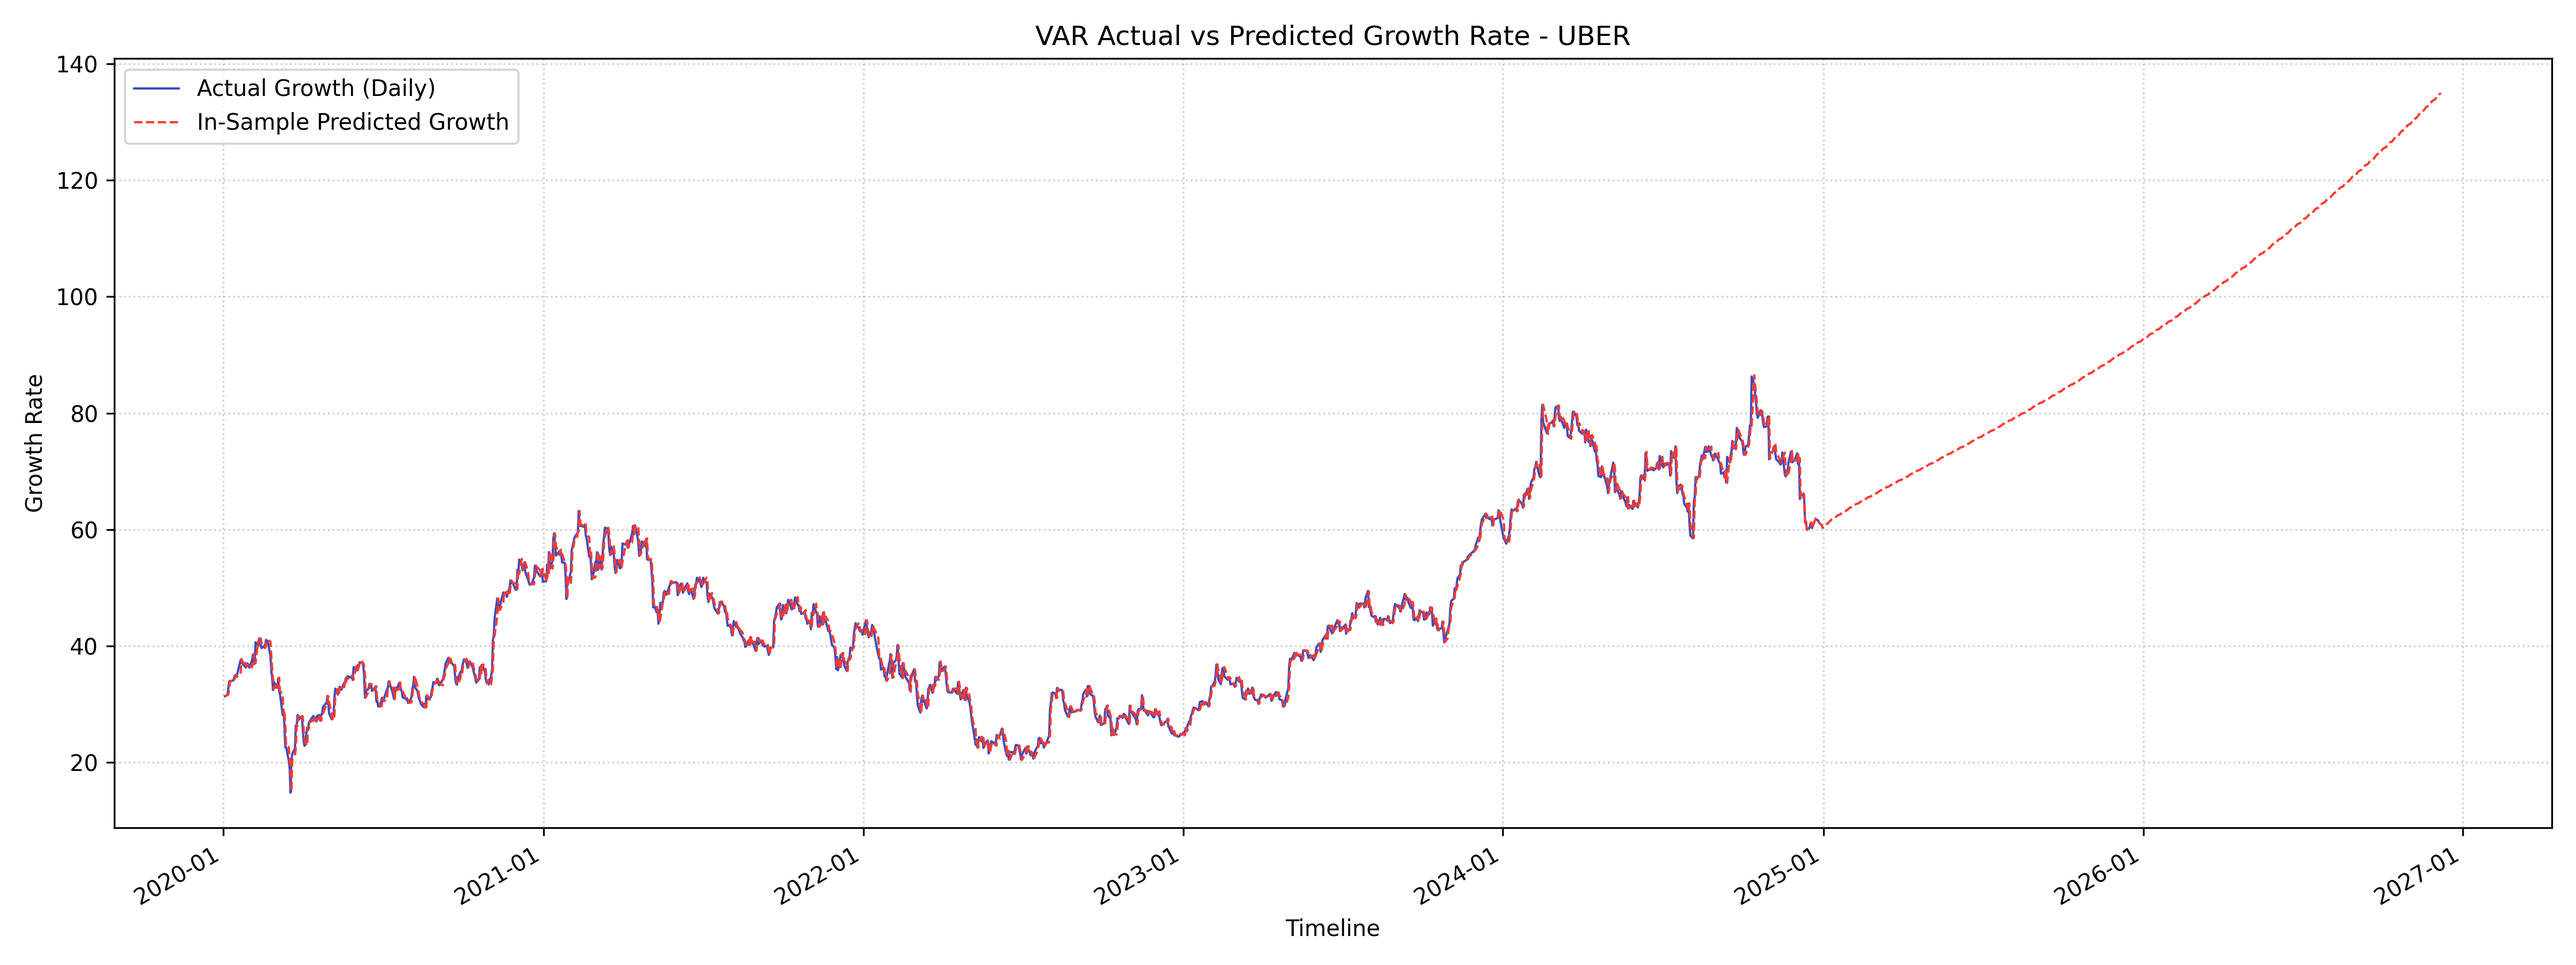
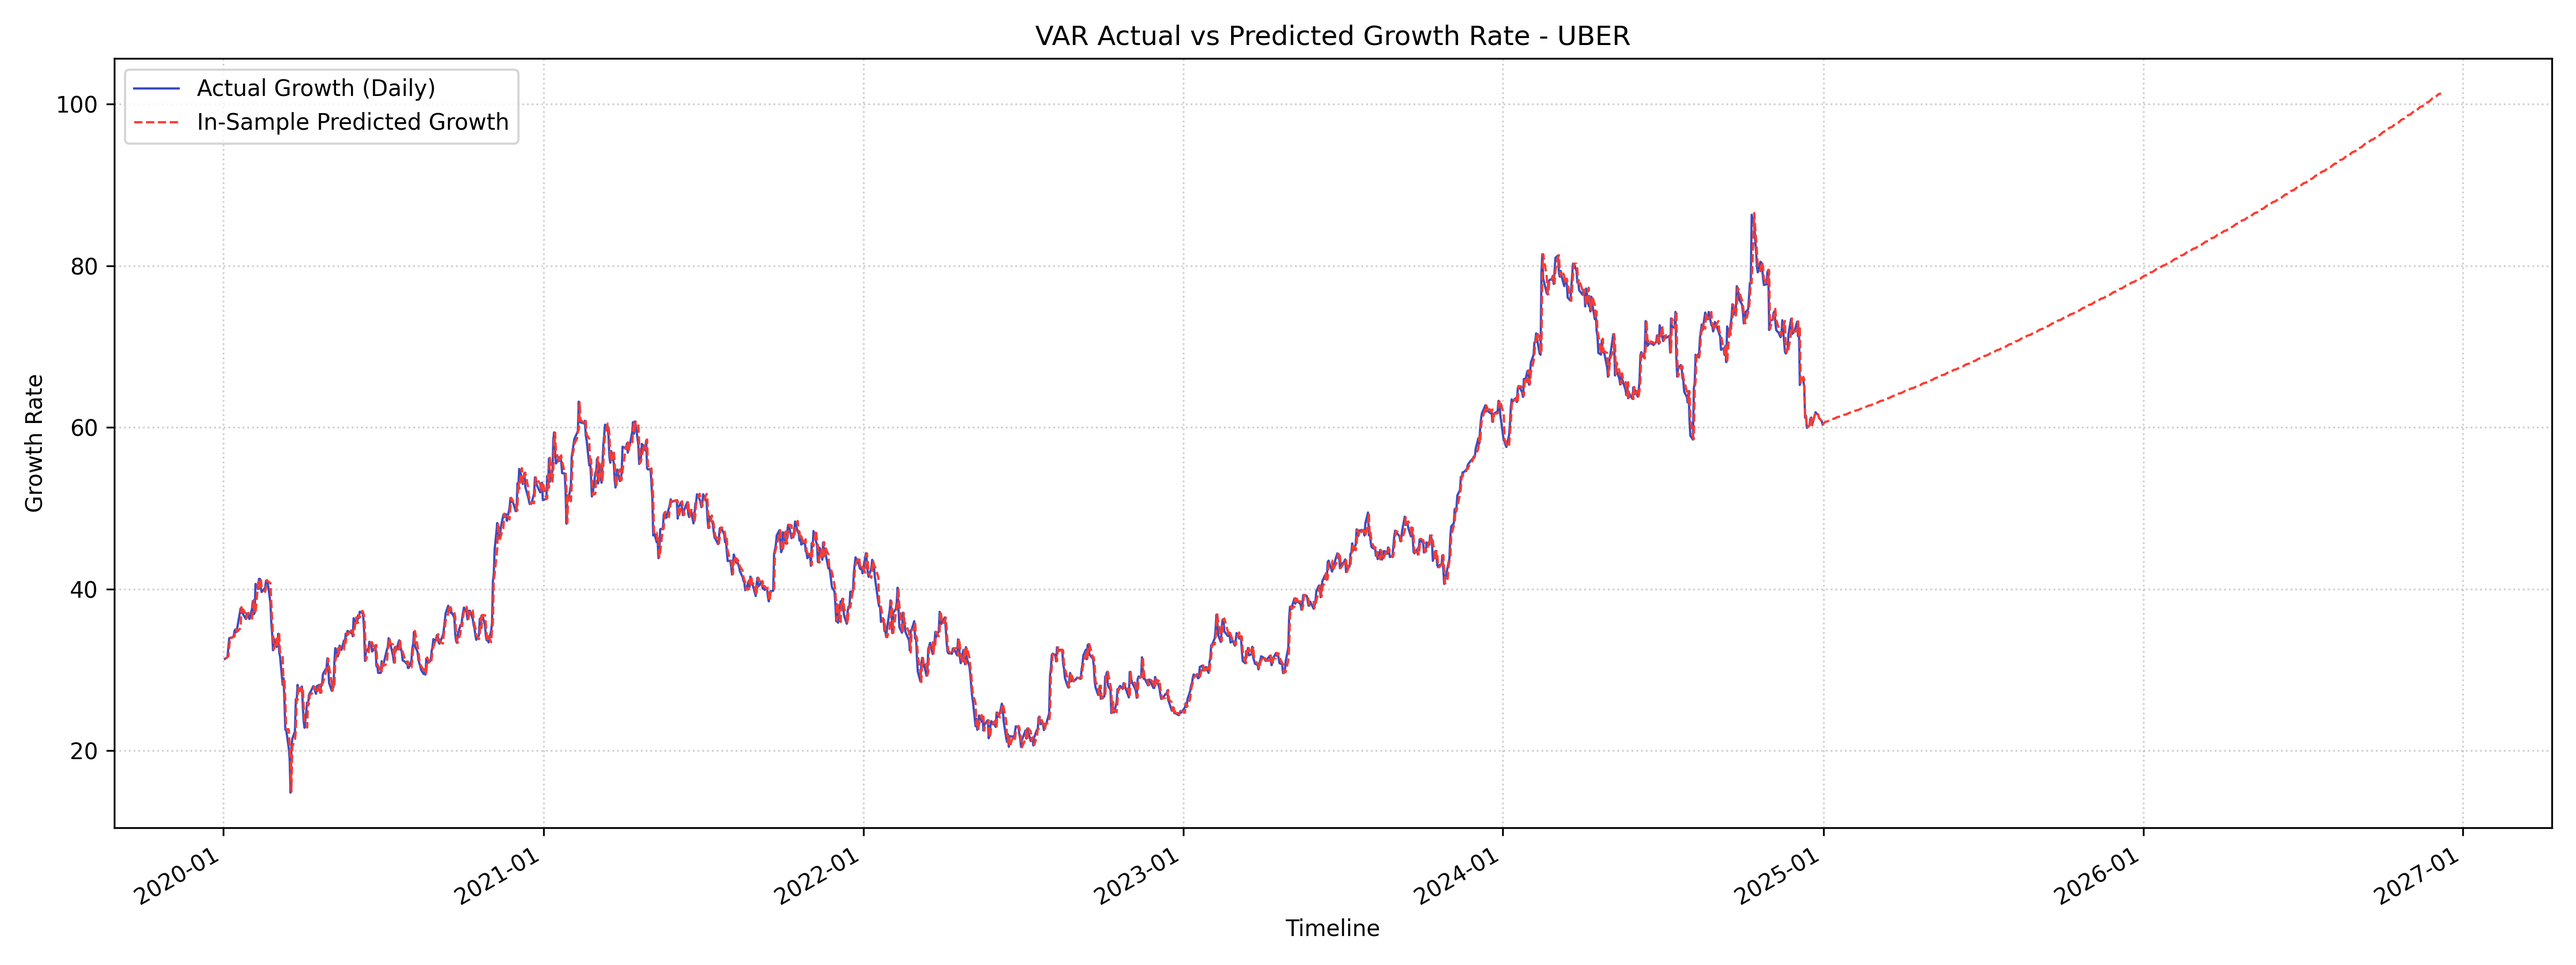
Architecture changes

Changed region(s): [[0.0938, 0.4356, 0.5938, 0.8089], [0.5625, 0.2489, 0.7188, 0.5289]]

diff --git a/ARIMAGrowthModel/architecture.py b/ARIMAGrowthModel/architecture.py
@@ -14,18 +14,39 @@ class ARIMAModelArchitecture:
         self.model_fit = None
         self.fitted_features = []
         self.train_len = 0
+        self.exog_means = None
+        self.exog_stds = None
 
     def fit_model(self, endog: pd.Series, exog_full: pd.DataFrame, feature_cols: list):
         self.train_len = len(endog)
         exog = exog_full[feature_cols].fillna(0.0)
         exog = exog.loc[:, exog.nunique() > 1]
-        
-        if exog.empty:
+
+        if not exog.empty:
+            corrs = exog.corrwith(endog).abs().sort_values(ascending=False)
+            selected = []
+            for feat in corrs.index:
+                collinear = False
+                for sel in selected:
+                    if abs(exog[feat].corr(exog[sel])) > 0.8:
+                        collinear = True
+                        break
+                if not collinear:
+                    selected.append(feat)
+                if len(selected) >= 5:
+                    break
+            exog = exog[selected]
+            self.fitted_features = list(exog.columns)
+            self.exog_means = exog.mean()
+            self.exog_stds = exog.std()
+            self.exog_stds[self.exog_stds == 0.0] = 1.0
+            exog = (exog - self.exog_means) / self.exog_stds
+            logger.info(f"Selected non-collinear features: {self.fitted_features}")
+        else:
             exog = None
             self.fitted_features = []
-        else:
-            self.fitted_features = list(exog.columns)
-            logger.info(f"Filtered training features: {self.fitted_features}")
+            self.exog_means = None
+            self.exog_stds = None
 
         best_aic = float("inf")
         best_order = (self.p, self.d, self.q)
@@ -53,13 +74,6 @@ class ARIMAModelArchitecture:
             raise ValuationError(f"Model fitting failed: {e}") from e
 
     def predict_in_sample(self, endog: pd.Series, exog_full: pd.DataFrame) -> pd.Series:
-        """
-        Walk-forward 5-year forecast at each training date.
-        At each date t, trains on data[0..t-1] and forecasts 1260 steps (5 years) ahead.
-        The mean of those 1260 forecasts is the predicted 5-year growth rate at t —
-        matching the same horizon as the actual growth target.
-        Subsamples every STEP_DAYS and interpolates for efficiency.
-        """
         if self.model_fit is None:
             raise ValuationError("Model has not been trained yet")
 
@@ -68,7 +82,11 @@ class ARIMAModelArchitecture:
         STEP = 5
         min_train = max(self.p + self.q + 2, 10)
 
-        exog = exog_full[self.fitted_features].fillna(0.0) if self.fitted_features else None
+        if self.fitted_features:
+            exog = exog_full[self.fitted_features].fillna(0.0)
+            exog = (exog - self.exog_means) / self.exog_stds
+        else:
+            exog = None
 
         sample_indices = []
         sample_preds = []
@@ -98,7 +116,6 @@ class ARIMAModelArchitecture:
             sample_indices.append(t)
             sample_preds.append(pred)
 
-        # Interpolate sample predictions across all n indices
         sparse = pd.Series(sample_preds, index=sample_indices)
         full = sparse.reindex(range(n)).interpolate(method="linear").ffill().bfill()
         if sample_preds:
@@ -113,7 +130,8 @@ class ARIMAModelArchitecture:
             
         exog_forecast = None
         if self.fitted_features:
-            exog_forecast = pd.DataFrame([last_exog[self.fitted_features]] * steps)
+            std_last_exog = (last_exog[self.fitted_features] - self.exog_means) / self.exog_stds
+            exog_forecast = pd.DataFrame([std_last_exog] * steps)
             exog_forecast.index = range(self.train_len, self.train_len + steps)
             
         try:

diff --git a/VARGrowthModel/training.py b/VARGrowthModel/training.py
@@ -3,8 +3,9 @@ import pandas as pd
 from .architecture import VectorAutoregressionModel
 
 class VARTrainer:
-    def __init__(self, lags: int = 5):
+    def __init__(self, lags: int = 5, alpha: float = 1.0):
         self.lags = lags
+        self.alpha = alpha
 
     def prepare_data(self, ohlcv_list: list, scores_list: list = None) -> pd.DataFrame:
         ohlcv_data = []
@@ -63,38 +64,43 @@ class VARTrainer:
 
         return df_merged
 
-    def tune_lags(self, data: np.ndarray) -> int:
+    def tune_hyperparameters(self, data: np.ndarray) -> tuple:
         best_lag = 5
+        best_alpha = 1.0
         best_val_mse = float("inf")
         n_samples = len(data)
         split_idx = int(n_samples * 0.8)
         train_data = data[:split_idx]
         val_data = data[split_idx:]
-        for lag in range(1, 11):
-            if len(train_data) <= lag or len(val_data) <= lag:
-                continue
-            try:
-                temp_model = VectorAutoregressionModel(lags=lag)
-                temp_model.fit(train_data)
-                val_errors = []
-                for t in range(lag, len(val_data)):
-                    row = [1.0]
-                    for l in range(1, lag + 1):
-                        row.extend(val_data[t - l])
-                    pred = np.array(row) @ temp_model.coefficients
-                    val_errors.append(val_data[t] - pred)
-                val_mse = np.mean(np.array(val_errors) ** 2)
-                if val_mse < best_val_mse:
-                    best_val_mse = val_mse
-                    best_lag = lag
-            except Exception:
-                continue
-        return best_lag
+        for lag in [1, 2, 3, 5, 8]:
+            for alpha in [0.1, 1.0, 10.0, 50.0]:
+                if len(train_data) <= lag or len(val_data) <= lag:
+                    continue
+                try:
+                    temp_model = VectorAutoregressionModel(lags=lag, alpha=alpha)
+                    temp_model.fit(train_data)
+                    val_errors = []
+                    std_val = (val_data - temp_model.means) / temp_model.stds
+                    for t in range(lag, len(val_data)):
+                        row = [1.0]
+                        for l in range(1, lag + 1):
+                            row.extend(std_val[t - l])
+                        pred_std = np.array(row) @ temp_model.coefficients
+                        pred = pred_std * temp_model.stds + temp_model.means
+                        val_errors.append(val_data[t] - pred)
+                    val_mse = np.mean(np.array(val_errors) ** 2)
+                    if val_mse < best_val_mse:
+                        best_val_mse = val_mse
+                        best_lag = lag
+                        best_alpha = alpha
+                except Exception:
+                    continue
+        return best_lag, best_alpha
 
     def train(self, ohlcv_list: list, scores_list: list = None) -> VectorAutoregressionModel:
         df_growth = self.prepare_data(ohlcv_list, scores_list)
         data = df_growth.to_numpy()
-        self.lags = self.tune_lags(data)
-        model = VectorAutoregressionModel(lags=self.lags)
+        self.lags, self.alpha = self.tune_hyperparameters(data)
+        model = VectorAutoregressionModel(lags=self.lags, alpha=self.alpha)
         model.fit(data)
         return model

diff --git a/VARGrowthModel/architecture.py b/VARGrowthModel/architecture.py
@@ -1,9 +1,12 @@
 import numpy as np
 
 class VectorAutoregressionModel:
-    def __init__(self, lags: int = 5):
+    def __init__(self, lags: int = 5, alpha: float = 1.0):
         self.lags = lags
+        self.alpha = alpha
         self.coefficients = None
+        self.means = None
+        self.stds = None
 
     def fit(self, data: np.ndarray) -> None:
         n_samples, n_features = data.shape
@@ -11,30 +14,43 @@ class VectorAutoregressionModel:
         if n_samples <= lags:
             raise ValueError("Not enough data to fit VAR model with specified lags")
 
+        self.means = np.mean(data, axis=0)
+        self.stds = np.std(data, axis=0)
+        self.stds[self.stds == 0.0] = 1.0
+
+        std_data = (data - self.means) / self.stds
+
         z_list = []
         x_list = []
         for t in range(lags, n_samples):
-            z_list.append(data[t])
+            z_list.append(std_data[t])
             row = [1.0]
             for lag in range(1, lags + 1):
-                row.extend(data[t - lag])
+                row.extend(std_data[t - lag])
             x_list.append(row)
 
         z = np.array(z_list)
         x = np.array(x_list)
-        self.coefficients = np.linalg.pinv(x.T @ x) @ x.T @ z
+
+        n_col = x.shape[1]
+        identity = np.eye(n_col)
+        identity[0, 0] = 0.0
+
+        self.coefficients = np.linalg.pinv(x.T @ x + self.alpha * identity) @ x.T @ z
 
     def forecast(self, history: np.ndarray, steps: int) -> np.ndarray:
         lags = self.lags
-        forecasts = []
-        current_history = list(history[-lags:])
+        std_history = list((history - self.means) / self.stds)
+        forecasts_std = []
 
         for _ in range(steps):
             row = [1.0]
             for lag in range(1, lags + 1):
-                row.extend(current_history[-lag])
-            pred = np.array(row) @ self.coefficients
-            forecasts.append(pred)
-            current_history.append(pred)
+                row.extend(std_history[-lag])
+            pred_std = np.array(row) @ self.coefficients
+            forecasts_std.append(pred_std)
+            std_history.append(pred_std)
 
-        return np.array(forecasts)
+        forecasts_std = np.array(forecasts_std)
+        forecasts = forecasts_std * self.stds + self.means
+        return forecasts

diff --git a/VARGrowthModel/testing.py b/VARGrowthModel/testing.py
@@ -20,8 +20,8 @@ class VARTester:
         train_np = df_growth.to_numpy()[:train_size]
         test_np = df_growth.to_numpy()[train_size:]
 
-        lags_train = self.trainer.tune_lags(train_np)
-        model = VectorAutoregressionModel(lags=lags_train)
+        lags_train, alpha_train = self.trainer.tune_hyperparameters(train_np)
+        model = VectorAutoregressionModel(lags=lags_train, alpha=alpha_train)
         model.fit(train_np)
         
         test_steps = len(test_np)
@@ -34,8 +34,8 @@ class VARTester:
         mse = np.mean((actual_close_growth - pred_close_growth) ** 2)
         mae = np.mean(np.abs(actual_close_growth - pred_close_growth))
 
-        lags_full = self.trainer.tune_lags(df_growth.to_numpy())
-        full_model = VectorAutoregressionModel(lags=lags_full)
+        lags_full, alpha_full = self.trainer.tune_hyperparameters(df_growth.to_numpy())
+        full_model = VectorAutoregressionModel(lags=lags_full, alpha=alpha_full)
         full_model.fit(df_growth.to_numpy())
 
         if results_dir:
@@ -49,11 +49,13 @@ class VARTester:
 
             lags = full_model.lags
             predicted_prices = list(actual_prices)
+            std_growth = (df_growth.to_numpy() - full_model.means) / full_model.stds
             for t in range(lags, len(df_growth)):
                 row = [1.0]
                 for lag in range(1, lags + 1):
-                    row.extend(df_growth.to_numpy()[t - lag])
-                pred_growth = np.array(row) @ full_model.coefficients
+                    row.extend(std_growth[t - lag])
+                pred_growth_std = np.array(row) @ full_model.coefficients
+                pred_growth = pred_growth_std * full_model.stds + full_model.means
                 pred_close_g = pred_growth[close_idx]
                 predicted_prices[t + 1] = ohlcv_list[t].close * (1.0 + pred_close_g)
 

diff --git a/ARIMAGrowthModel/testing.py b/ARIMAGrowthModel/testing.py
@@ -113,7 +113,7 @@ class ARIMATester:
         }
 
     def _save_results_plot(self, df_insample: pd.DataFrame, df_outsample: pd.DataFrame, symbol: str = "STOCK"):
-        results_dir = os.path.join(os.path.dirname(__file__), "results2")
+        results_dir = os.path.join(os.path.dirname(__file__), "results")
         os.makedirs(results_dir, exist_ok=True)
         plot_path = os.path.join(results_dir, f"{symbol}_valuation_forecast.png")
 
